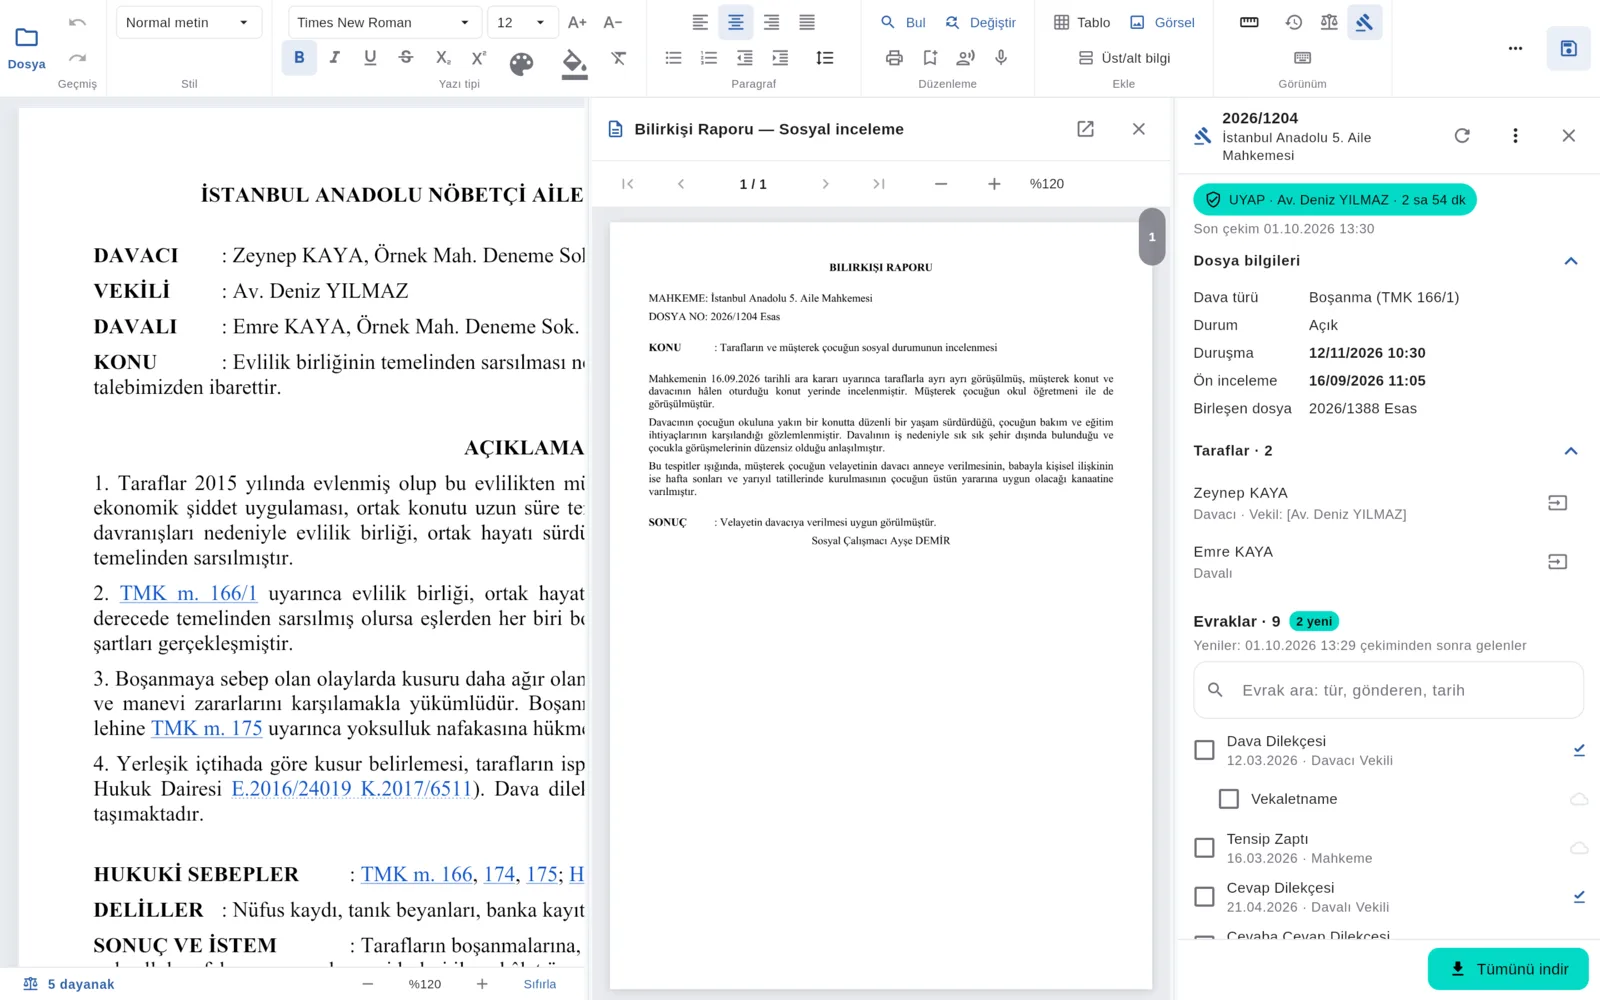
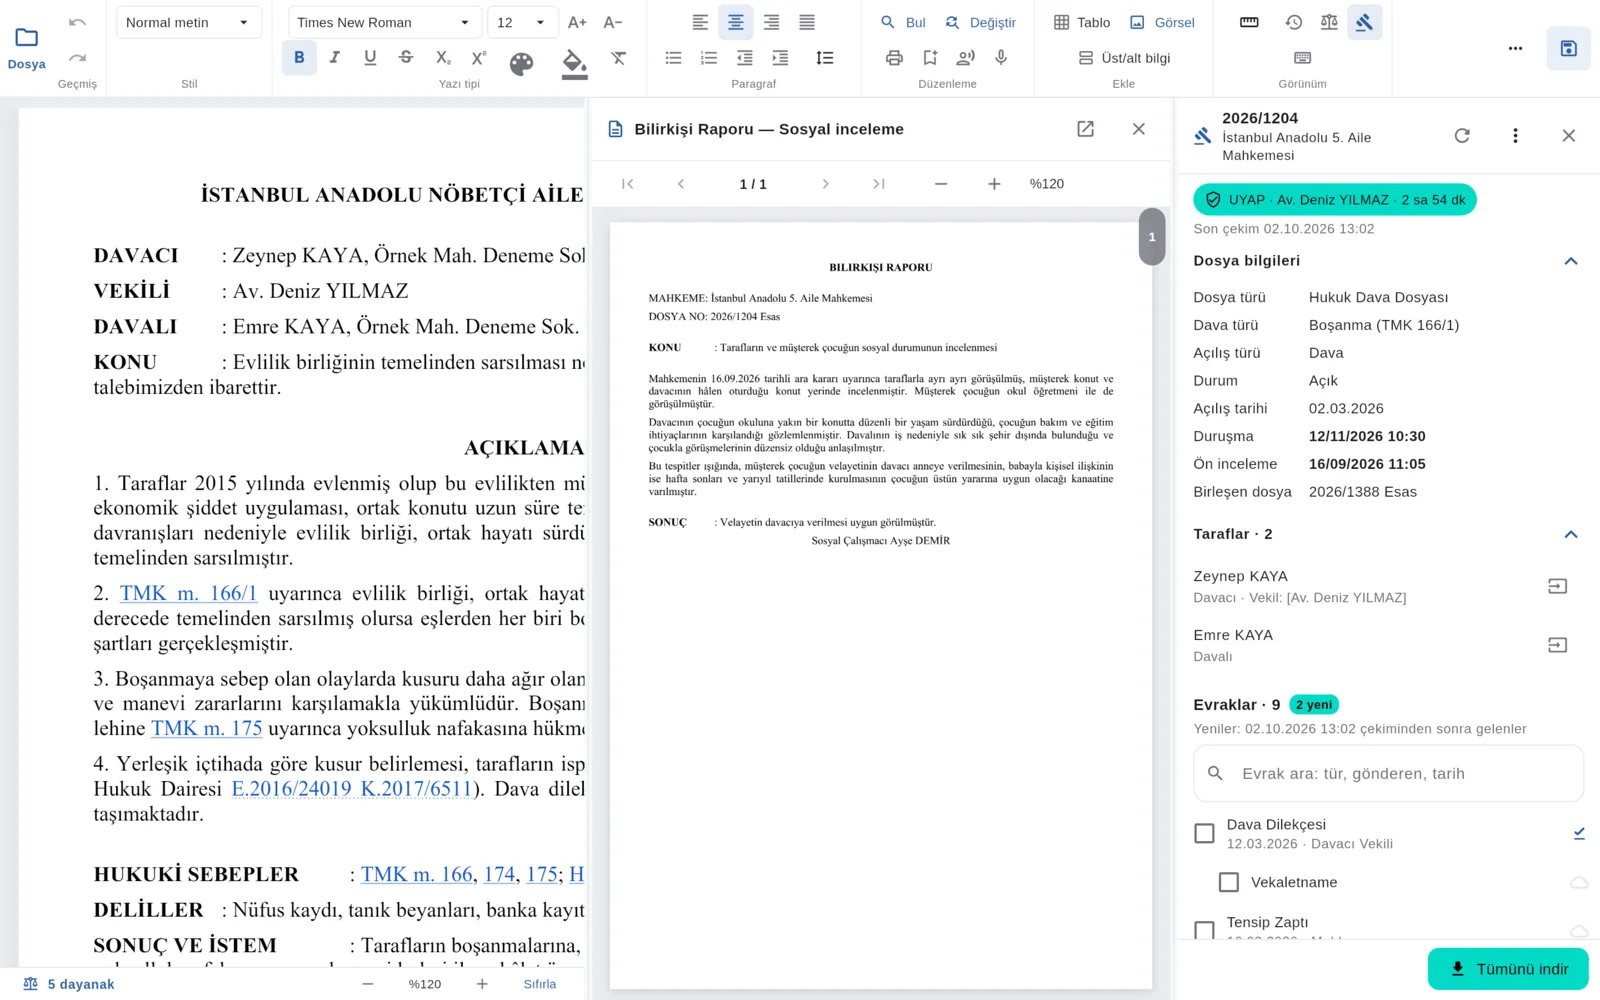
Describe UYAP Dosyalarım in the README, and raise the version to 1.4.0
The README's UYAP part now has the cases page: the list with its search,
filters and order, adding a case (Yargıtay and Danıştay too), the case's
page and its tabs, fees and collections, and beginning a petition from
it. The pictures are made from invented cases.

Changed region(s): [[0.75, 0.279, 0.9375, 0.651], [0.75, 0.682, 0.9375, 0.961], [0.9688, 0.558, 1.0, 0.589]]

diff --git a/tool/screenshots/folio_screens_test.dart b/tool/screenshots/folio_screens_test.dart
@@ -291,11 +291,70 @@ Future<UyapCaseStore> _demoCase(
     ),
   );
   final parties = await DemoUyap().parties(DemoUyap.target);
+  const link = UyapCaseLink(
+    jurisdiction: '1',
+    courtType: 'AILE',
+    courtId: 'c5',
+    court: 'İstanbul Anadolu 5. Aile Mahkemesi',
+    number: '2026/1204',
+  );
+  // Two more cases on the list, invented: an enforcement file and one at
+  // the Yargıtay.
+  await store.keep(
+    target: const UyapCase(
+      'd2',
+      '2026/3318',
+      'c9',
+      'İstanbul 12. İcra Dairesi',
+    ),
+    details: const UyapCaseDetails(
+      fileType: 'İcra Dosyası',
+      state: 'Açık (Durdurulmuş : Takibe İtiraz)',
+      openedOn: '14.01.2026',
+      enforcement: [
+        ('Takip türü', 'İlamsız'),
+        ('Alacak toplamı', '84.250,00 TL'),
+      ],
+    ),
+    parties: const [
+      UyapParty(
+        'Örnek Yapı Ltd. Şti.',
+        'Alacaklı',
+        'Av. Deniz YILMAZ',
+        'Kurum',
+      ),
+      UyapParty('Can DEMİR', 'Borçlu', '', 'Kişi'),
+    ],
+    documents: UyapCaseDocuments(DemoUyap.documents(4)),
+    now: DateTime.now().subtract(const Duration(days: 6)),
+  );
+  await store.keep(
+    target: const UyapCase(
+      'd3',
+      '2026/9001',
+      'y2',
+      'Yargıtay 2. Hukuk Dairesi',
+    ),
+    details: const UyapCaseDetails(
+      fileType: 'Yargıtay Dosyası',
+      state: 'Daireye Gönderildi',
+      openedOn: '14/09/2026',
+      related: [('Yerel mahkeme', 'İstanbul 7. Aile Mahkemesi · 2025/880')],
+    ),
+    parties: const [
+      UyapParty('Elif AKSOY', 'Davacı', 'Av. Deniz YILMAZ', 'Kişi'),
+      UyapParty('Murat AKSOY', 'Davalı', '', 'Kişi'),
+    ],
+    documents: UyapCaseDocuments(DemoUyap.documents(3)),
+    now: DateTime.now().subtract(const Duration(days: 9)),
+  );
   await store.keep(
     target: DemoUyap.target,
     details: DemoUyap.details,
     parties: parties,
     documents: UyapCaseDocuments(DemoUyap.documents(6)),
+    link: link,
+    money: DemoUyap.money,
     now: DateTime.now().subtract(const Duration(days: 3)),
   );
   var record = await store.keep(
@@ -662,9 +721,23 @@ void main() {
         rounds: 40,
       );
       await _shot(tester, 'uyap-dosyalarim');
-      await tester.tap(tile.first);
+      await tester.tap(
+        find.byWidgetPredicate(
+          (w) =>
+              '${w.key}'.contains('uyap-case-') &&
+              '${w.key}'.contains(
+                UyapCaseStore.keyOf(
+                  DemoUyap.target.courtName,
+                  DemoUyap.target.number,
+                ),
+              ),
+        ),
+      );
       await _settle(tester, () => false, rounds: 20);
       await _shot(tester, 'uyap-kategori');
+      await tester.tap(find.text('Harç ve tahsilat'));
+      await _settle(tester, () => false, rounds: 20);
+      await _shot(tester, 'uyap-harc');
     } finally {
       debugDisableShadows = true;
     }

diff --git a/tool/screenshots/demo_uyap.dart b/tool/screenshots/demo_uyap.dart
@@ -168,6 +168,48 @@ class DemoUyap extends UyapWebService {
     hearing: '12/11/2026 10:30',
     preliminary: '16/09/2026 11:05',
     related: [('Birleşen dosya', '2026/1388 Esas')],
+    fileType: 'Hukuk Dava Dosyası',
+    state: 'Açık',
+    openedOn: '02.03.2026',
+  );
+
+  /// The case's fees and collections, invented.
+  static const money = UyapCaseMoney(
+    collected: 1846.20,
+    paidOut: 250,
+    deposit: 0,
+    remaining: 1596.20,
+    fees: [
+      UyapMoneyItem(
+        kind: 'Başvurma Harcı',
+        date: '02/03/2026',
+        amount: 615.40,
+        receipt: 'M-2026-0412',
+        payer: 'Av. Deniz YILMAZ',
+      ),
+      UyapMoneyItem(
+        kind: 'Peşin Harç',
+        date: '02/03/2026',
+        amount: 615.40,
+        receipt: 'M-2026-0413',
+        payer: 'Av. Deniz YILMAZ',
+      ),
+      UyapMoneyItem(
+        kind: 'Gider Avansı',
+        date: '02/03/2026',
+        amount: 615.40,
+        receipt: 'M-2026-0414',
+        payer: 'Av. Deniz YILMAZ',
+      ),
+    ],
+    payments: [
+      UyapMoneyItem(
+        kind: 'Gider avansı iadesi',
+        date: '21/09/2026',
+        amount: 250,
+        payer: 'Zeynep KAYA',
+      ),
+    ],
   );
 
   /// The case's documents, the first [count] of them: what came later is

diff --git a/README.md b/README.md
@@ -8,7 +8,7 @@ Ekran görüntülerindeki kişi ve dosya bilgileri uydurmadır; görüntüler `t
 
 - [Sesli okuma ve sesli yazma](#sesli-okuma-ve-sesli-yazma)
 - [Birden fazla pencere ve yazdırma](#birden-fazla-pencere-ve-yazdırma)
-- [UYAP'a bağlanma](#uyapa-bağlanma) · [UYAP'a evrak gönderme](#uyapa-evrak-gönderme) · [UYAP dosyası editörün yanında](#uyap-dosyası-editörün-yanında)
+- [UYAP'a bağlanma](#uyapa-bağlanma) · [UYAP'a evrak gönderme](#uyapa-evrak-gönderme) · [UYAP Dosyalarım](#uyap-dosyalarım) · [UYAP dosyası editörün yanında](#uyap-dosyası-editörün-yanında)
 - [Elektronik imzalı UDF](#elektronik-imzalı-udf) · [Arama ve otomatik indeksleme](#arama-ve-otomatik-indeksleme) · [Kanun maddesi ve emsal karar önizlemesi](#kanun-maddesi-ve-emsal-karar-önizlemesi)
 - [Güncellemeler](#güncellemeler) · [macOS](#macos) · [Derleme](#derleme)
 
@@ -205,13 +205,37 @@ Oturum yaklaşık 2 saat 55 dakika açık kalır; bu sürede gönderme ve dosya 
 |---|---|
 | ![Taraflar ve gönderilecek belge aynı ekranda](docs/screenshots/uyap-hedef.webp) | ![Göndermeden önce son kontrol](docs/screenshots/uyap-onay.webp) |
 
-**Gönderimi incele** son kontrol ekranını açar. Gönderilmeden hemen önce dosya numarası, taraflar, evrak türü ve belgenin kendisi yeniden denetlenir; bunlardan biri bu arada değiştiyse evrak gönderilmez ve neden gönderilmediği yazılır. Gönderilen evrak, UYAP'taki işlem tamamlanana kadar ana ekrandan açılan **UYAP Devam Eden İşlemler** listesinde izlenir.
+Dosya seçme penceresinde yıl ve esas numarası boş gelir; boş bırakılırsa mahkemedeki bütün dosyalar listelenir. **Gönderimi incele** son kontrol ekranını açar. Gönderilmeden hemen önce dosya numarası, taraflar, evrak türü ve belgenin kendisi yeniden denetlenir; bunlardan biri bu arada değiştiyse evrak gönderilmez ve neden gönderilmediği yazılır. Gönderilen evrak, UYAP'taki işlem tamamlanana kadar ana ekrandan açılan **UYAP Devam Eden İşlemler** listesinde izlenir.
 
 ![Devam Eden İşlemler](docs/screenshots/uyap-islemler.webp)
 
+## UYAP Dosyalarım
+
+Ana ekranın sol menüsünde, klasörlerin arasında **UYAP Dosyalarım** bulunur. Tıklandığında Folio'nun bu bilgisayarda sakladığı UYAP dosyaları listelenir ve dosyalar menüde onun altında açılır. Bir dosya, UYAP'tan bir kez çekildiği anda listeye girer; evrakının indirilmiş olması gerekmez.
+
+![UYAP Dosyalarım: arama, filtreler ve dosyalar](docs/screenshots/uyap-dosyalarim.webp)
+
+Her dosyanın kartında esas numarası, mahkemesi, tarafları rolleriyle, dosya ve dava türü, duruşma tarihi, son eşitleme zamanı, yeni evrak sayısı ve kaç evrakın indirildiği görünür. Dosya yalnız "Açık" değilse durumu ayrıca yazılır, örneğin "Açık (Durdurulmuş : Takibe İtiraz)" ya da "İstinafta". Arama kutusu esas numarasında, mahkemede, taraf ve vekil adlarında, dava türünde ve durumda arar. Filtreler yeni evrakı olan dosyaları, 30 gün içinde duruşması olanları ya da bir dosya türünü (Hukuk, İcra, Yargıtay…) gösterir. Liste son eşitlemeye, yaklaşan duruşmaya ya da esas numarasına göre sıralanır.
+
+Sayfanın üstündeki **UYAP'a bağlan** oturumu açar; bağlıyken yerinde kalan oturum süresi görünür. **UYAP'tan dosya ekle** ile yargı türü, mahkeme türü, mahkeme ve isteğe bağlı olarak yıl ve esas numarası seçilir. Yıl ve numara boş bırakılırsa o mahkemedeki bütün dosyalar listelenir. Yargıtay ve Danıştay dosyaları da eklenir: bunlarda mahkeme yerine avukatın dosyası olan daireler listelenir; yıl ve numara dairenin dosyalarını süzer. Folio portföyün tamamını kendiliğinden çekmez; her dosya isteyerek eklenir, çünkü UYAP aynı anda tek isteğe izin verir.
+
+Bir dosyaya tıklanınca dosya sayfası açılır. Geniş ekranda solda dosya bilgileri ve taraflar, sağda sekmeler bulunur; dar ekranda dosya bilgileri de bir sekmedir.
+
+![Bir UYAP dosyasının sayfası](docs/screenshots/uyap-kategori.webp)
+
+- **Dosya bilgileri:** dosya türü, dava türü, açılış türü, ayrıntılı durum, açılış ve kapanış tarihi, duruşma, keşif ve ön inceleme, karar ve istinaf ya da Yargıtay aşamasındaki dosyada yerel mahkemenin kararı, bağlı dosyalar. İcra dosyasında ayrıca takip türü, şekli ve yolu ile alacak toplamı, faiz, masraf, vekâlet ücreti, tahsil harcı ve yapılmış tahsilat. Yargıtay ve Danıştay dosyasında konu, daireye geliş tarihi ve yerel mahkeme.
+- **Evraklar:** dosyanın kendi evrakı en üstte ve açık gelir; bağlı dosyaların evrakı ayrı gruplar hâlinde kapalı gelir ve tıklanınca açılır. Arama, bulduğu grupları kendiliğinden açar.
+- **İndirilen:** bu bilgisayardaki evrak; tıklanan evrak Folio'nun önizlemesinde açılır.
+- **Dilekçeler:** editörde bu dosyaya bağlanmış belgeler.
+- **Harç ve tahsilat:** toplam tahsilat, reddiyat, teminat ve kalan; harçlar, tahsilatlar ve reddiyatlar makbuz no, tarih, ödeyen ve tutarla.
+
+![Harç ve tahsilat sekmesi](docs/screenshots/uyap-harc.webp)
+
+Dosya sayfasındaki yenile düğmesi dosyayı UYAP'tan yeniden çeker. Folio önce UYAP'a o dosya türünde nelerin gösterildiğini sorar ve yalnız onları ister; örneğin ceza dosyasında dosya bilgileri istenmez, sayfada "UYAP bu dosya türünde dosya bilgilerini göstermiyor" yazar. Önceki bir Folio sürümünün kaydettiği ve UYAP'taki yerini bilmeyen dosyada ilk yenilemede mahkeme ve esas numarası bir kez seçilir. **Bu dosya için yeni dilekçe** editörü bu dosyaya bağlı yeni bir UDF ile açar; **Listeden kaldır** dosyayı yalnız Folio'nun listesinden çıkarır, UYAP'taki dosyaya dokunmaz ve indirilen evrakın da silinip silinmeyeceğini ayrıca sorar.
+
 ## UYAP dosyası editörün yanında
 
-Editörün araç çubuğundaki **UYAP dosyası**, sayfanın yanında bir panel açar. Belgeyi bir UYAP dosyasına bağladığınızda panelde dosyanın bilgileri görünür: dava türü, durum, duruşma, keşif ve ön inceleme tarihleri, birleşen ve ilgili dosyalar, taraflar ve vekilleri, dosyadaki bütün evrak. Bir tarafın bilgisi **Metne ekle** ile imlecin bulunduğu yere yazılır. Bağ belgeyle birlikte hatırlanır; belge sonra açıldığında panel aynı dosyayla gelir. Panel sürüklenerek genişletilip daraltılabilir.
+Editörün araç çubuğundaki **UYAP dosyası**, sayfanın yanında bir panel açar. Belgeyi bir UYAP dosyasına bağladığınızda panelde dosya sayfasındaki bilgiler görünür: dosya bilgileri, taraflar ve vekilleri, dosyadaki bütün evrak. Bir tarafın adı **Metne ekle** ile imlecin bulunduğu yere yazılır. Bağlarken önce bu bilgisayardaki dosyalar listelenir; bunlardan biri UYAP oturumu olmadan seçilebilir. Bağ belgeyle birlikte hatırlanır; belge sonra açıldığında panel aynı dosyayla gelir ve belge dosya sayfasının **Dilekçeler** sekmesinde görünür. Panel sürüklenerek genişletilip daraltılabilir.
 
 ![Dilekçenin yanında UYAP dosya paneli](docs/screenshots/uyap-panel.webp)
 
@@ -223,9 +247,7 @@ Evrak tek tek işaretlenip **Seçilenleri indir** ile ya da **Tümünü indir** 
 
 ![Üç evrak indirilmek üzere seçili](docs/screenshots/uyap-secerek-indirme.webp)
 
-İndirilen evrak varsayılan olarak ev klasöründeki `Folio/UYAP` altında, her dosya için mahkeme adı ve esas numarasıyla adlandırılmış bir klasöre kaydedilir. Belgeler klasörü bilerek önerilmez: Windows onu OneDrive'a taşıyabilir. Kaydetme ilk kurulumda açıktır; panelin **Kayıt ayarları** bölümünden kapatılabilir ya da klasör değiştirilebilir. Kayıt klasörü arşive kendiliğinden eklenir, yani indirilen evrakın içinde de arama yapılır. Ana ekranın sol menüsünde **UYAP DOSYALARI** başlığı altında her dosya ayrı bir kategori olarak görünür; bir dosyaya tıklamak yalnız o dosyanın evrakını listeler.
-
-![Ana ekranda UYAP dosyası kategorisi](docs/screenshots/uyap-kategori.webp)
+İndirilen evrak varsayılan olarak ev klasöründeki `Folio/UYAP` altında, her dosya için mahkeme adı ve esas numarasıyla adlandırılmış bir klasöre kaydedilir. Belgeler klasörü bilerek önerilmez: Windows onu OneDrive'a taşıyabilir. Kaydetme ilk kurulumda açıktır; panelin **Kayıt ayarları** bölümünden kapatılabilir ya da klasör değiştirilebilir. Kayıt klasörü arşive kendiliğinden eklenir, yani indirilen evrakın içinde de arama yapılır.
 
 Dosya kimlikleri UYAP'ta oturuma bağlı olduğu için Folio dosyaları mahkeme ve esas numarasıyla, evrakı UYAP'ın evrak numarasıyla tanır; böylece yeni bir oturumda da aynı dosya ve evrak eşleşir. LifeOS Editör ile Folio aynı kayıtları kullanır.
 
